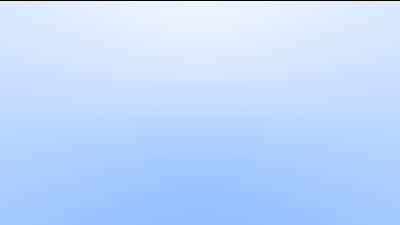
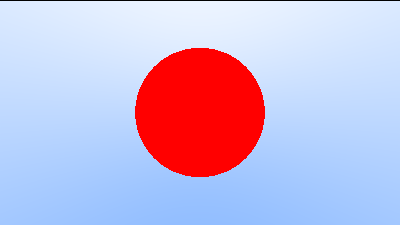
Red sphere

Changed region(s): [[0.33, 0.1867, 0.66, 0.8089]]

diff --git a/src/main.rs b/src/main.rs
@@ -5,10 +5,22 @@ mod ray;
 use crate::ray::Ray;
 
 fn ray_color(ray: &Ray) -> Vec3 {
+    if hit_sphere(&Vec3::new(0.0, 0.0, -1.0), 0.5, ray) {
+        return Vec3::new(1.0, 0.0, 0.0); // RED
+    }
     let unit_direction: Vec3 = ray.direction().make_unit_vector();
     let t: f32 = 0.5 * (unit_direction.y() + 1.0);
     let vecern = (1.0 - t) * Vec3::new(1.0, 1.0, 1.0) + t * Vec3::new(0.5, 0.7, 1.0);
     return vecern;
+}
+
+fn hit_sphere(center: &Vec3, radius: f32, r: &Ray) -> bool {
+    let oc = r.origin() - *center;
+    let a = r.direction().dot(&r.direction());
+    let b = 2.0 * oc.dot(&r.direction());
+    let c = oc.dot(&oc) - radius * radius;
+    let discriminant = b * b - 4.0 * a * c;
+    return discriminant > 0.0;
 }
 
 fn main() {
